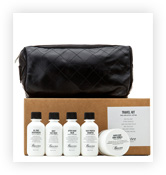
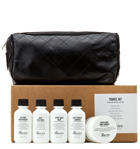
+catalog-item.html

diff --git a/catalog.html b/catalog.html
@@ -80,71 +80,73 @@
 					</form>
 				</div>
 				<div class="content-right">
-					<article class="product-card">
-						<a href="catalog-item.html"><img src="img/catalog-product-card1.jpg" width="220" height="165" alt=""></a>
-						<a href="catalog-item.html">
-							<span>набор для путешествий</span>
-							<span>«baxter of california»</span>
-						</a>
-						<div>
-							<span>2900 руб.</span>
-							<a href="#" class="btn-buy">купить</a>
-						</div>
-					</article>	
-					<article class="product-card">
-						<a href="#"><img src="img/catalog-product-card2.jpg" width="220" height="165" alt=""></a>
-						<a href="#">
-							<span>увлажняющий кондиционер</span>
-							<span>«baxter of california»</span>
-						</a>
-						<div>
-							<span>750 руб.</span>
-							<a href="#" class="btn-buy">купить</a>
-						</div>
-					</article>	
-					<article class="product-card">
-						<a href="#"><img src="img/catalog-product-card3.jpg" width="220" height="165" alt=""></a>
-						<a href="#">
-							<span>гель для волос</span>
-							<span>«suavecito»</span>
-						</a>
-						<div>
-							<span>290 руб.</span>
-							<a href="#" class="btn-buy">купить</a>
-						</div>				
-					</article>
-					<article class="product-card">
-						<a href="#"><img src="img/catalog-product-card4.jpg" width="220" height="165" alt=""></a>
-						<a href="#">
-							<span>глина для укладки волос</span>
-							<span>«american crew»</span>
-						</a>
-						<div>
-							<span>500 руб.</span>
-							<a href="#" class="btn-buy">купить</a>
-						</div>
-					</article>
-					<article class="product-card">
-						<a href="#"><img src="img/catalog-product-card5.jpg" width="220" height="165" alt=""></a>
-						<a href="#">
-							<span>гель для волос</span>
-							<span>«american crew»</span></a>
-						<div>
-							<span>300 руб.</span>
-							<a href="#" class="btn-buy">купить</a>
-						</div>
-					</article>	
-					<article class="product-card">
-						<a href="catalog-item.html"><img src="img/catalog-product-card6.jpg" width="220" height="165" alt=""></a>
-						<a href="#">
-							<span>набор для бритья</span>
-							<span>«baxter of california»</span>
-						</a>
-						<div>
-							<span>3900 руб.</span>
-							<a href="#" class="btn-buy">купить</a>
-						</div>				
-					</article>
+					<div class="clearfix">
+						<article class="product-card">
+							<a href="catalog-item.html"><img src="img/catalog-product-card1.jpg" width="220" height="165" alt=""></a>
+							<a href="catalog-item.html">
+								<span>набор для путешествий</span>
+								<span>«baxter of california»</span>
+							</a>
+							<div>
+								<span>2900 руб.</span>
+								<a href="#" class="btn-buy">купить</a>
+							</div>
+						</article>	
+						<article class="product-card">
+							<a href="#"><img src="img/catalog-product-card2.jpg" width="220" height="165" alt=""></a>
+							<a href="#">
+								<span>увлажняющий кондиционер</span>
+								<span>«baxter of california»</span>
+							</a>
+							<div>
+								<span>750 руб.</span>
+								<a href="#" class="btn-buy">купить</a>
+							</div>
+						</article>	
+						<article class="product-card">
+							<a href="#"><img src="img/catalog-product-card3.jpg" width="220" height="165" alt=""></a>
+							<a href="#">
+								<span>гель для волос</span>
+								<span>«suavecito»</span>
+							</a>
+							<div>
+								<span>290 руб.</span>
+								<a href="#" class="btn-buy">купить</a>
+							</div>				
+						</article>
+						<article class="product-card">
+							<a href="#"><img src="img/catalog-product-card4.jpg" width="220" height="165" alt=""></a>
+							<a href="#">
+								<span>глина для укладки волос</span>
+								<span>«american crew»</span>
+							</a>
+							<div>
+								<span>500 руб.</span>
+								<a href="#" class="btn-buy">купить</a>
+							</div>
+						</article>
+						<article class="product-card">
+							<a href="#"><img src="img/catalog-product-card5.jpg" width="220" height="165" alt=""></a>
+							<a href="#">
+								<span>гель для волос</span>
+								<span>«american crew»</span></a>
+							<div>
+								<span>300 руб.</span>
+								<a href="#" class="btn-buy">купить</a>
+							</div>
+						</article>	
+						<article class="product-card">
+							<a href="catalog-item.html"><img src="img/catalog-product-card6.jpg" width="220" height="165" alt=""></a>
+							<a href="#">
+								<span>набор для бритья</span>
+								<span>«baxter of california»</span>
+							</a>
+							<div>
+								<span>3900 руб.</span>
+								<a href="#" class="btn-buy">купить</a>
+							</div>				
+						</article>
+					</div>
 					<div class="paginator">
 							<a href="#1">1</a>
 							<a class="current" href="#2">2</a>
@@ -167,7 +169,7 @@
 					<a class="social-btn social-btn-vk" href="#">вконтакте</a>
 					<a class="social-btn social-btn-fb" href="#">фейсбук</a>
 					<a class="social-btn social-btn-inst" href="#">инстаграм</a>				
-				</section>
+				</section> 
 				<section class="footer-copyright">
 					<p>разработано:</p>
 					<a class="btn" href="https://htmlacademy.ru">html academy</a>				

diff --git a/catalog-item.html b/catalog-item.html
@@ -38,33 +38,35 @@
 				</div>
 			</header>
 			<div class="content container clearfix">
-				<section class="product-gallery">
-					<img src="img/travel-kit-large.jpg" width="486" height="524" alt="">
-					<img src="img/travel-kit-small1.jpg" width="166" height="175" alt="">
-					<img src="img/travel-kit-small2.jpg" width="166" height="175" alt="">
-					<img src="img/travel-kit-small3.jpg" width="166" height="175" alt="">		
-				</section>
-				<section class="product-description">
-					<p>есть в наличии</p>
-					<p class="article">артикул: dexter-ae</p>
-					<p>travel kit – необходимый аксессуар во время любого путешествия. в аккуратной кожаной сумке находиться все, что нужно для бритья и ухода за кожей во время рабочей поездки или отдыха: средство для умывания, увлажняющий крем, крем для бритья, крем после бритья, шампунь, набор также может стать отличным подарком.</p>
-				</section>
-				<section class="product-price">
-					<div>
-						<span>2900 руб.</span>
-						<a href="#" class="btn-buy">купить</a>
-					</div>
-				</section>
-				<section class="product-structure">
-					<b>в набор входят:</b>
-					<ul>
-						<li>средство для умывания (50 мл)</li>
-						<li>увлажняющий крем (50 мл)</li>
-						<li>крем для бритья (50 мл)</li>
-						<li>крем после бритья, шампунь (50 мл)</li>
-						<li>удобная кожаная косметичка</li>
-					</ul>
-				</section>
+					<section class="gallery-content-left">
+						<img src="img/travel-kit-large.jpg" width="460" height="500" alt="">
+						<img src="img/travel-kit-small1.jpg" width="140" height="149" alt="">
+						<img src="img/travel-kit-small2.jpg" width="140" height="149" alt="">
+						<img src="img/travel-kit-small3.jpg" width="140" height="149" alt="">		
+					</section>
+				<div class="gallery-content-right">
+					<section class="product-description">
+						<p>есть в наличии</p>
+						<p class="article">артикул: dexter-ae</p>
+						<p>travel kit – необходимый аксессуар во время любого путешествия. в аккуратной кожаной сумке находиться все, что нужно для бритья и ухода за кожей во время рабочей поездки или отдыха: средство для умывания, увлажняющий крем, крем для бритья, крем после бритья, шампунь, набор также может стать отличным подарком.</p>
+					</section>
+					<section class="product-price">
+						<div>
+							<span>2900 руб.</span>
+							<a href="#" class="btn-buy">купить</a>
+						</div>
+					</section>
+					<section class="product-structure">
+						<b>в набор входят:</b>
+						<ul>
+							<li>средство для умывания (50 мл)</li>
+							<li>увлажняющий крем (50 мл)</li>
+							<li>крем для бритья (50 мл)</li>
+							<li>крем после бритья, шампунь (50 мл)</li>
+							<li>удобная кожаная косметичка</li>
+						</ul>
+					</section>
+				</div>
 			</div>		
 		</main>
 		<footer class="main-footer">

diff --git a/index.html b/index.html
@@ -6,8 +6,8 @@
 		<link rel="stylesheet" href="css/style.css">
   </head>
   <body>
-    <header class="main-header">
-      <div class="container">
+    <header class="index-main-header">
+      <div class="container clearfix">
         <nav class="main-navigation">
           <ul>
             <li>
@@ -20,7 +20,7 @@
               <a href="#">Прайс-лист</a>
             </li>
             <li>
-              <a href="catalog.html">Магазин</a>
+              <a href="#">Магазин</a>
             </li>
             <li>
               <a href="#">Контакты</a>
@@ -36,7 +36,7 @@
       <div class="index-logo">
         <img src="img/index-logo.png" width="368" height="204" alt="Барбершоп «Бородинский»">
       </div>
-      <section class="features">
+      <section class="features clearfix">
         <div class="features-item">
           <b class="features-name">Быстро</b>
           <p>Мы делаем свою работу быстро! Два часа пролетят незаметно и вы — счастливый обладатель стильной стрижки-минутки!</p>
@@ -50,7 +50,7 @@
           <p>Наши мастера — профессионалы своего дела и не могут стоить дешево. К тому же, разве цена не дает определенный статус?</p>
         </div>
       </section>
-      <div class="index-content">
+      <div class="index-content clearfix">
         <div class="index-content-left">
           <h2 class="index-content-title">Новости</h2>
           <ul class="news-preview">
@@ -76,7 +76,7 @@
           </div>
         </div>
       </div>
-      <div class="index-content">
+      <div class="index-content clearfix">
         <div class="index-content-left">
           <h2 class="index-content-title">Контактная информация</h2>
           <p>
@@ -105,8 +105,8 @@
         </div>
       </div>
     </main>
-    <footer class="main-footer">
-      <div class="container">
+    <footer class="index-main-footer">
+      <div class="container clearfix">
         <section class="footer-contacts">
           Барбершоп «Бородинский»<br>
           Адрес: г. Санкт-Петербург, Б. Конюшенная, д. 19/8<br>
